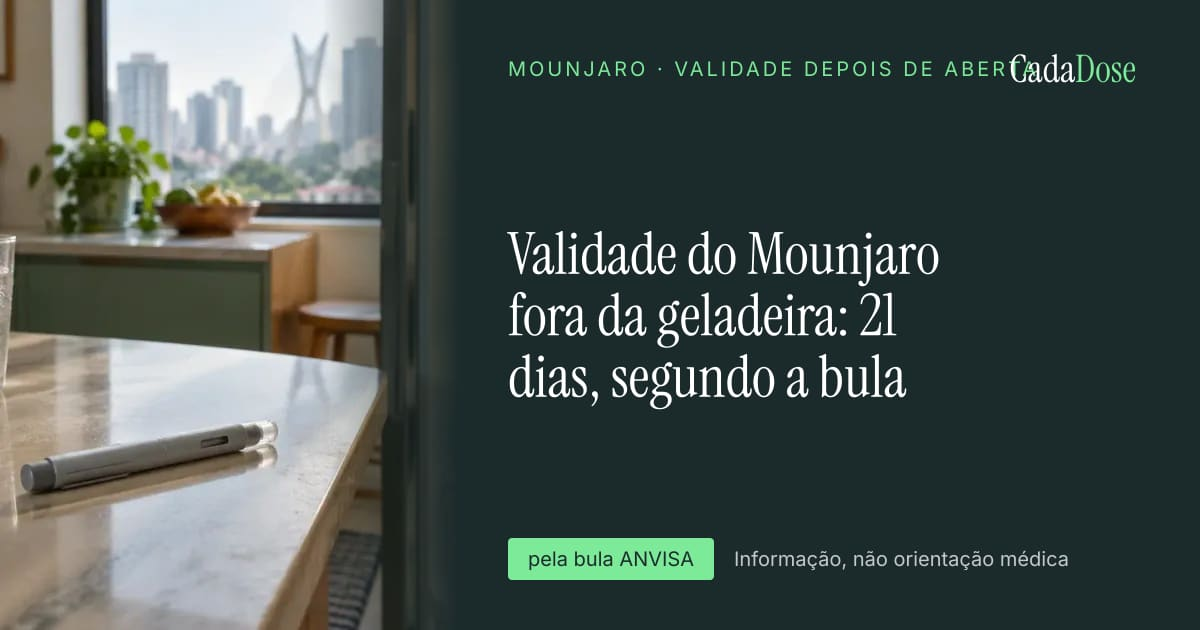
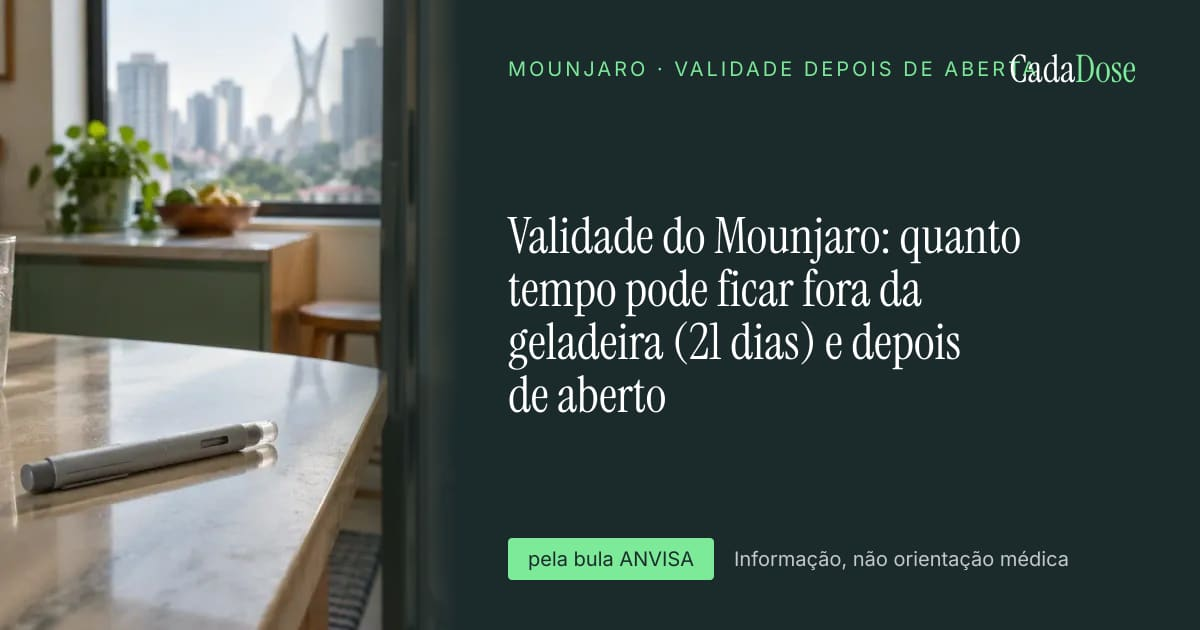
Titles from Search Console wording: Wegovy 2.4mg forms, Mounjaro best day, validade, meia-vida, menstruação, Wegovy needles, Ozempic composition
- Wegovy dose pages carry both "2,4 mg" and "2.4mg" forms.
- Mounjaro melhor-horario adds the day-of-week question, quoting the bula's 3-day rule.
- Mounjaro validade, meia-vida and the menstruação template use the phrasings people search.
- Wegovy agulha-e-caneta quotes the bula on compatible needles (up to 8 mm, NovoFine).
- Ozempic para-que-serve adds princípio ativo and the bula's Composição section.

Changed region(s): [[0.4008, 0.3317, 0.8633, 0.6635]]

diff --git a/src/content/pt-wave4.ts b/src/content/pt-wave4.ts
@@ -108,19 +108,21 @@ export const ptWave4: Article[] = [
   {
     medicationSlug: "mounjaro",
     intent: "melhor-horario",
-    title: "Qual o melhor horário para tomar Mounjaro? O que diz a bula",
+    title: "Melhor horário e melhor dia da semana para tomar Mounjaro: o que diz a bula",
     answer:
       "Não existe horário obrigatório. A bula orienta \"administrar MOUNJARO em qualquer horário do dia, independente das refeições\", uma vez por semana. O que importa é manter o mesmo dia da semana; se quiser mudar o dia, respeite pelo menos 3 dias (72 horas) entre as doses.",
-    description: "Horário de aplicação do Mounjaro segundo a bula: qualquer hora, com ou sem alimentos, uma vez por semana.",
+    description: "Qual o melhor horário e o melhor dia da semana para aplicar Mounjaro? A bula: qualquer hora, com ou sem alimentos, e troca de dia com 3 dias de intervalo.",
     updated: U,
     reviewed: false,
     sections: [
       { heading: "A regra da bula", bullets: ["Qualquer horário do dia.", "Com ou sem alimentos.", "Uma vez por semana, sempre no mesmo dia.", "Mudança de dia: intervalo mínimo de 72 horas entre as doses."] },
+      { heading: "Existe melhor dia da semana?", paragraphs: ["A bula não indica um dia da semana melhor que outro. O que ela diz é como trocar: “o dia da administração semanal pode ser alterado, se necessário, contanto que o intervalo entre as duas doses seja de pelo menos 3 dias (72 horas)”."] },
       { heading: "Na prática", paragraphs: ["Escolha um dia e um horário que você consiga manter. O diário CadaDose lembra você no dia e na hora escolhidos e registra cada aplicação."] },
     ],
     faq: [
       { q: "Mounjaro é melhor de manhã ou à noite?", a: "A bula não faz diferença: qualquer horário do dia, independente das refeições." },
       { q: "Preciso aplicar em jejum?", a: "Não. A bula diz que a aplicação independe das refeições." },
+      { q: "Qual o melhor dia da semana para tomar Mounjaro?", a: "A bula não define um melhor dia. Para trocar de dia, as duas doses precisam ficar a pelo menos 3 dias (72 horas) uma da outra." },
     ],
     sources: [mounjaroBula],
   },
@@ -194,19 +196,21 @@ export const ptWave4: Article[] = [
   {
     medicationSlug: "ozempic",
     intent: "para-que-serve",
-    title: "Ozempic: o que é, para que serve e o que diz a bula brasileira",
+    title: "Ozempic: o que é, princípio ativo, composição e para que serve (bula brasileira)",
     answer:
       "Segundo a bula, Ozempic é indicado \"para tratar pacientes adultos com diabetes tipo 2 não satisfatoriamente controlada\", com dieta e exercícios, e para reduzir o risco de piora dos rins e de morte cardiovascular em adultos com diabetes tipo 2 e doença renal crônica. Perda de peso não é uma indicação na bula: aparece apenas como efeito colateral.",
-    description: "Indicação oficial do Ozempic no Brasil, como age, e o que a bula diz (e não diz) sobre emagrecimento.",
+    description: "Ozempic é semaglutida: princípio ativo, composição, indicação oficial no Brasil, como age, e o que a bula diz (e não diz) sobre emagrecimento.",
     updated: U,
     reviewed: false,
     sections: [
       { heading: "As indicações na bula", bullets: ["Diabetes tipo 2 em adultos, com dieta e exercícios.", "Redução do risco de piora da função renal e de morte cardiovascular em adultos com diabetes tipo 2 e doença renal crônica."] },
+      { heading: "Princípio ativo e composição (seção “Composição”)", bullets: ["“Ozempic® contém o princípio ativo semaglutida.”", "“Cada mL de solução injetável contém 1,34 mg de semaglutida.”", "Excipientes: “fosfato de sódio dibásico di-hidratado, propilenoglicol, fenol, ácido clorídrico (ajuste de pH), hidróxido de sódio (ajuste de pH) e água para injetáveis.”", "A semaglutida do Ozempic é “produzido em células Saccharomyces cerevisiae por tecnologia de DNA recombinante”.", "Caneta de 1 mg: “Um sistema de aplicação preenchido contém 4 mg de semaglutida em 3 mL.”"] },
       { heading: "Como age", paragraphs: ["\"Estimula a secreção de insulina e diminui a secreção de glucagon, somente quando a glicose sanguínea estiver elevada.\""] },
       { heading: "E para emagrecer?", paragraphs: ["Na bula do Ozempic, perda de peso está listada entre os efeitos comuns, não entre as indicações. O medicamento da mesma substância aprovado para controle de peso é o Wegovy. Siga o que seu médico prescreveu."] },
     ],
     faq: [
       { q: "Ozempic é para emagrecer?", a: "Não segundo a bula: a indicação é o diabetes tipo 2. Perda de peso aparece como efeito colateral comum. Wegovy é o produto com semaglutida aprovado para controle de peso." },
+      { q: "Ozempic é semaglutida?", a: "Sim. A bula diz: “Ozempic® contém o princípio ativo semaglutida”, 1,34 mg por mL." },
       { q: "Ozempic serve para menores de 18 anos?", a: "A bula diz que não é recomendado em crianças e adolescentes com menos de 18 anos." },
     ],
     sources: [ozempicBula1, bulario],

diff --git a/src/content/pt-wave5.ts b/src/content/pt-wave5.ts
@@ -392,15 +392,16 @@ export const ptWave5: Article[] = [
 
   // ───────── AGULHA E CANETA ─────────
   A("wegovy", "agulha-e-caneta",
-    "Agulha do Wegovy: pode reutilizar? O que a bula diz",
+    "Agulhas para caneta Wegovy: quais são compatíveis e pode reutilizar? O que a bula diz",
     "Não. A bula do Wegovy orienta: “Sempre use uma agulha nova em cada injeção” e “Nunca reutilize suas agulhas, pois isso pode resultar em agulhas entupidas, contaminação, infecção e dosagem imprecisa.” Mantenha a caneta tampada para proteger da luz e não use se tiver congelado.",
-    "Reutilização de agulhas, tampa e cuidados com a caneta de Wegovy segundo a bula.",
+    "Agulhas compatíveis com a caneta de Wegovy (até 8 mm, NovoFine), quantas vêm na caixa e por que não reutilizar, segundo a bula.",
     [
+      { heading: "Quais agulhas servem (instruções de uso)", bullets: ["“Wegovy® pode ser administrado com agulhas de até 8 mm de comprimento.”", "“Seu sistema de aplicação foi desenvolvido para ser utilizado com agulhas descartáveis NovoFine®.”", "Na caixa: “1 sistema de aplicação preenchido e 4 agulhas descartáveis NovoFine® Plus”."] },
       { heading: "Texto da bula (instruções de uso)", bullets: ["“Sempre use uma agulha nova em cada injeção.”", "“Nunca reutilize suas agulhas, pois isso pode resultar em agulhas entupidas, contaminação, infecção e dosagem imprecisa.”"] },
       { heading: "Cuidados com a caneta (seção 5)", bullets: ["“mantenha-o tampado para protegê-lo da luz.”", "“Não congelar e não utilizar Wegovy® se tiver sido congelado.”"] },
       { heading: "Dose maior que a indicada (seção 9)", paragraphs: ["“Se você utilizar Wegovy® em uma quantidade maior do que deveria, fale imediatamente com o seu médico.”"] },
     ],
-    [{ q: "Apliquei Wegovy duas vezes sem querer. O que faço?", a: "A bula orienta falar imediatamente com o seu médico." }],
+    [{ q: "Quais agulhas são compatíveis com a caneta Wegovy?", a: "A bula diz que a caneta foi desenvolvida para agulhas descartáveis NovoFine® e aceita agulhas de até 8 mm de comprimento. A caixa traz 4 agulhas NovoFine® Plus." }, { q: "Apliquei Wegovy duas vezes sem querer. O que faço?", a: "A bula orienta falar imediatamente com o seu médico." }],
     [wg, bulario]),
 
   // ───────── RETINOPATIA ─────────
@@ -427,9 +428,9 @@ export const ptWave5: Article[] = [
 
   // ───────── MEIA-VIDA ─────────
   A("mounjaro", "quanto-tempo-fica-no-corpo",
-    "Quanto tempo o Mounjaro fica no corpo? A meia-vida segundo a bula",
+    "Meia-vida do Mounjaro: quanto tempo fica no corpo, segundo a bula (cerca de 5 dias)",
     "A bula do Mounjaro cita uma meia-vida de aproximadamente 5 dias. Isso significa que, a cada 5 dias, a quantidade no sangue cai pela metade; é por isso que a aplicação é semanal. O CadaDose não calcula nem mostra “nível do medicamento”: a bula não traz curva para o paciente, e estimativa não é medição.",
-    "Meia-vida do Mounjaro segundo a bula brasileira e por que o diário não estima nível no sangue.",
+    "Qual a meia-vida do Mounjaro e quantos dias fica no corpo? O que a bula brasileira diz, e por que o diário não estima nível no sangue.",
     [
       { heading: "Texto da bula (seção 9)", paragraphs: ["“levando em conta a meia-vida de MOUNJARO (aproximadamente 5 dias)”."] },
       { heading: "Por que não mostramos “nível do medicamento”", paragraphs: ["Alguns apps exibem uma curva estimada de concentração. A bula do paciente não traz esse dado para uso individual, e uma estimativa pode dar falsa segurança em decisões de dose, que são do seu médico."] },

diff --git a/src/content/pt-wave7.ts b/src/content/pt-wave7.ts
@@ -13,9 +13,9 @@ const silent = (nome: string, tema: string): Section => ({ heading: "O que a bul
 const diario: Section = { heading: "Como registrar no diário", paragraphs: ["No CadaDose você anota o que observou, com data e dose da semana. Na consulta, o relatório mostra o padrão; o médico decide com dados."] };
 
 const menstr = (slug: string, nome: string, src: { label: string; url: string }) =>
-  A(slug, "menstruacao", `${nome} atrasa a menstruação? O que a bula diz (e não diz)`,
+  A(slug, "menstruacao", `${nome} atrasa ou desregula a menstruação? O ciclo menstrual na bula`,
     `A bula do paciente do ${nome} não menciona menstruação, ciclo menstrual ou atraso menstrual, nem entre os efeitos listados nem nas advertências. Isso não prova que não aconteça; significa que não consta na bula aprovada. Se o seu ciclo mudou, registre e informe o médico, que pode investigar outras causas, incluindo gravidez (a bula contraindica o uso na gravidez).`,
-    `${nome} e menstruação: o que consta e o que não consta na bula brasileira.`,
+    `${nome} atrasa, corta ou altera o ciclo menstrual? O que consta e o que não consta na bula brasileira.`,
     [silent(nome, "menstruação, ciclo menstrual ou atraso menstrual"), { heading: "O que consta e pode importar", bullets: ["A bula não recomenda o uso na gravidez: um atraso menstrual merece teste de gravidez e conversa com o médico.", "A bula lista efeitos como náusea, vômito e cansaço; nenhum deles é descrito como relacionado ao ciclo."] }, diario],
     [{ q: `${nome} corta a menstruação?`, a: "A bula não trata do assunto. Informe o médico." }, { q: "Atrasou e estou usando. O que faço?", a: "Faça um teste de gravidez e fale com o médico: a bula não recomenda o uso na gravidez." }], [src, bulario]);
 

diff --git a/src/content/pt-wave6.ts b/src/content/pt-wave6.ts
@@ -78,7 +78,7 @@ const wgSteps: [Article["intent"], string, string][] = [
   ["dose-2-4-mg", "2,4 mg", "Dose de manutenção a partir da semana 17; “depois de atingir a dose recomendada de 2,4 mg, não aumente mais esta dose”."],
 ];
 const wgDose = wgSteps.map(([intent, mg, role]) =>
-  A("wegovy", intent, `Wegovy ${mg}: ${role.replace(/[.;].*$/, "").replace(/^Dose de manutenção a partir da semana 17/, "dose de manutenção (semana 17 em diante)").replace(/^Dose de início/, "dose de início").replace(/^Semanas/, "semanas")}, segundo a bula`,
+  A("wegovy", intent, `Wegovy ${mg} (${mg.replace(",", ".").replace(" ", "")}): ${role.replace(/[.;].*$/, "").replace(/^Dose de manutenção a partir da semana 17/, "dose de manutenção (semana 17 em diante)").replace(/^Dose de início/, "dose de início").replace(/^Semanas/, "semanas")}, segundo a bula`,
     `${role} A bula do Wegovy aumenta a dose a cada 4 semanas até 2,4 mg (dose de manutenção) ou a dose máxima tolerada. Se o enjoo incomodar muito, a bula orienta conversar com o médico sobre adiar o aumento ou voltar à dose anterior. Cada caneta tem 4 doses da mesma concentração.`,
     `Wegovy (semaglutida) ${mg} (${mg.replace(",", ".").replace(" ", "")}) segundo a bula brasileira: ${role} Escada completa de 0,25 a 2,4 mg e o que fazer com o enjoo.`,
     [

diff --git a/src/content/pt.ts b/src/content/pt.ts
@@ -150,10 +150,10 @@ export const ptArticles: Article[] = [
   {
     medicationSlug: "mounjaro",
     intent: "validade-depois-de-aberta",
-    title: "Validade do Mounjaro fora da geladeira: 21 dias, segundo a bula",
+    title: "Validade do Mounjaro: quanto tempo pode ficar fora da geladeira (21 dias) e depois de aberto",
     answer:
       "A caneta de Mounjaro deve ficar na geladeira, entre 2 °C e 8 °C, na embalagem original, e não pode ser congelada. Fora da geladeira, a bula permite manter a caneta em temperatura abaixo de 30 °C por até 21 dias. Como a caneta brasileira é de uso único, não existe \"depois de aberta\": cada caneta é descartada após a aplicação.",
-    description: "Conservação do Mounjaro no Brasil segundo a bula: geladeira, até 21 dias fora de refrigeração abaixo de 30 °C, e caneta de uso único.",
+    description: "Qual a validade do Mounjaro? Na geladeira até a data da embalagem; fora da geladeira, até 21 dias abaixo de 30 °C; depois de aberto não existe, a caneta é de uso único.",
     updated: "2026-10-28",
     reviewed: false,
     sections: [
